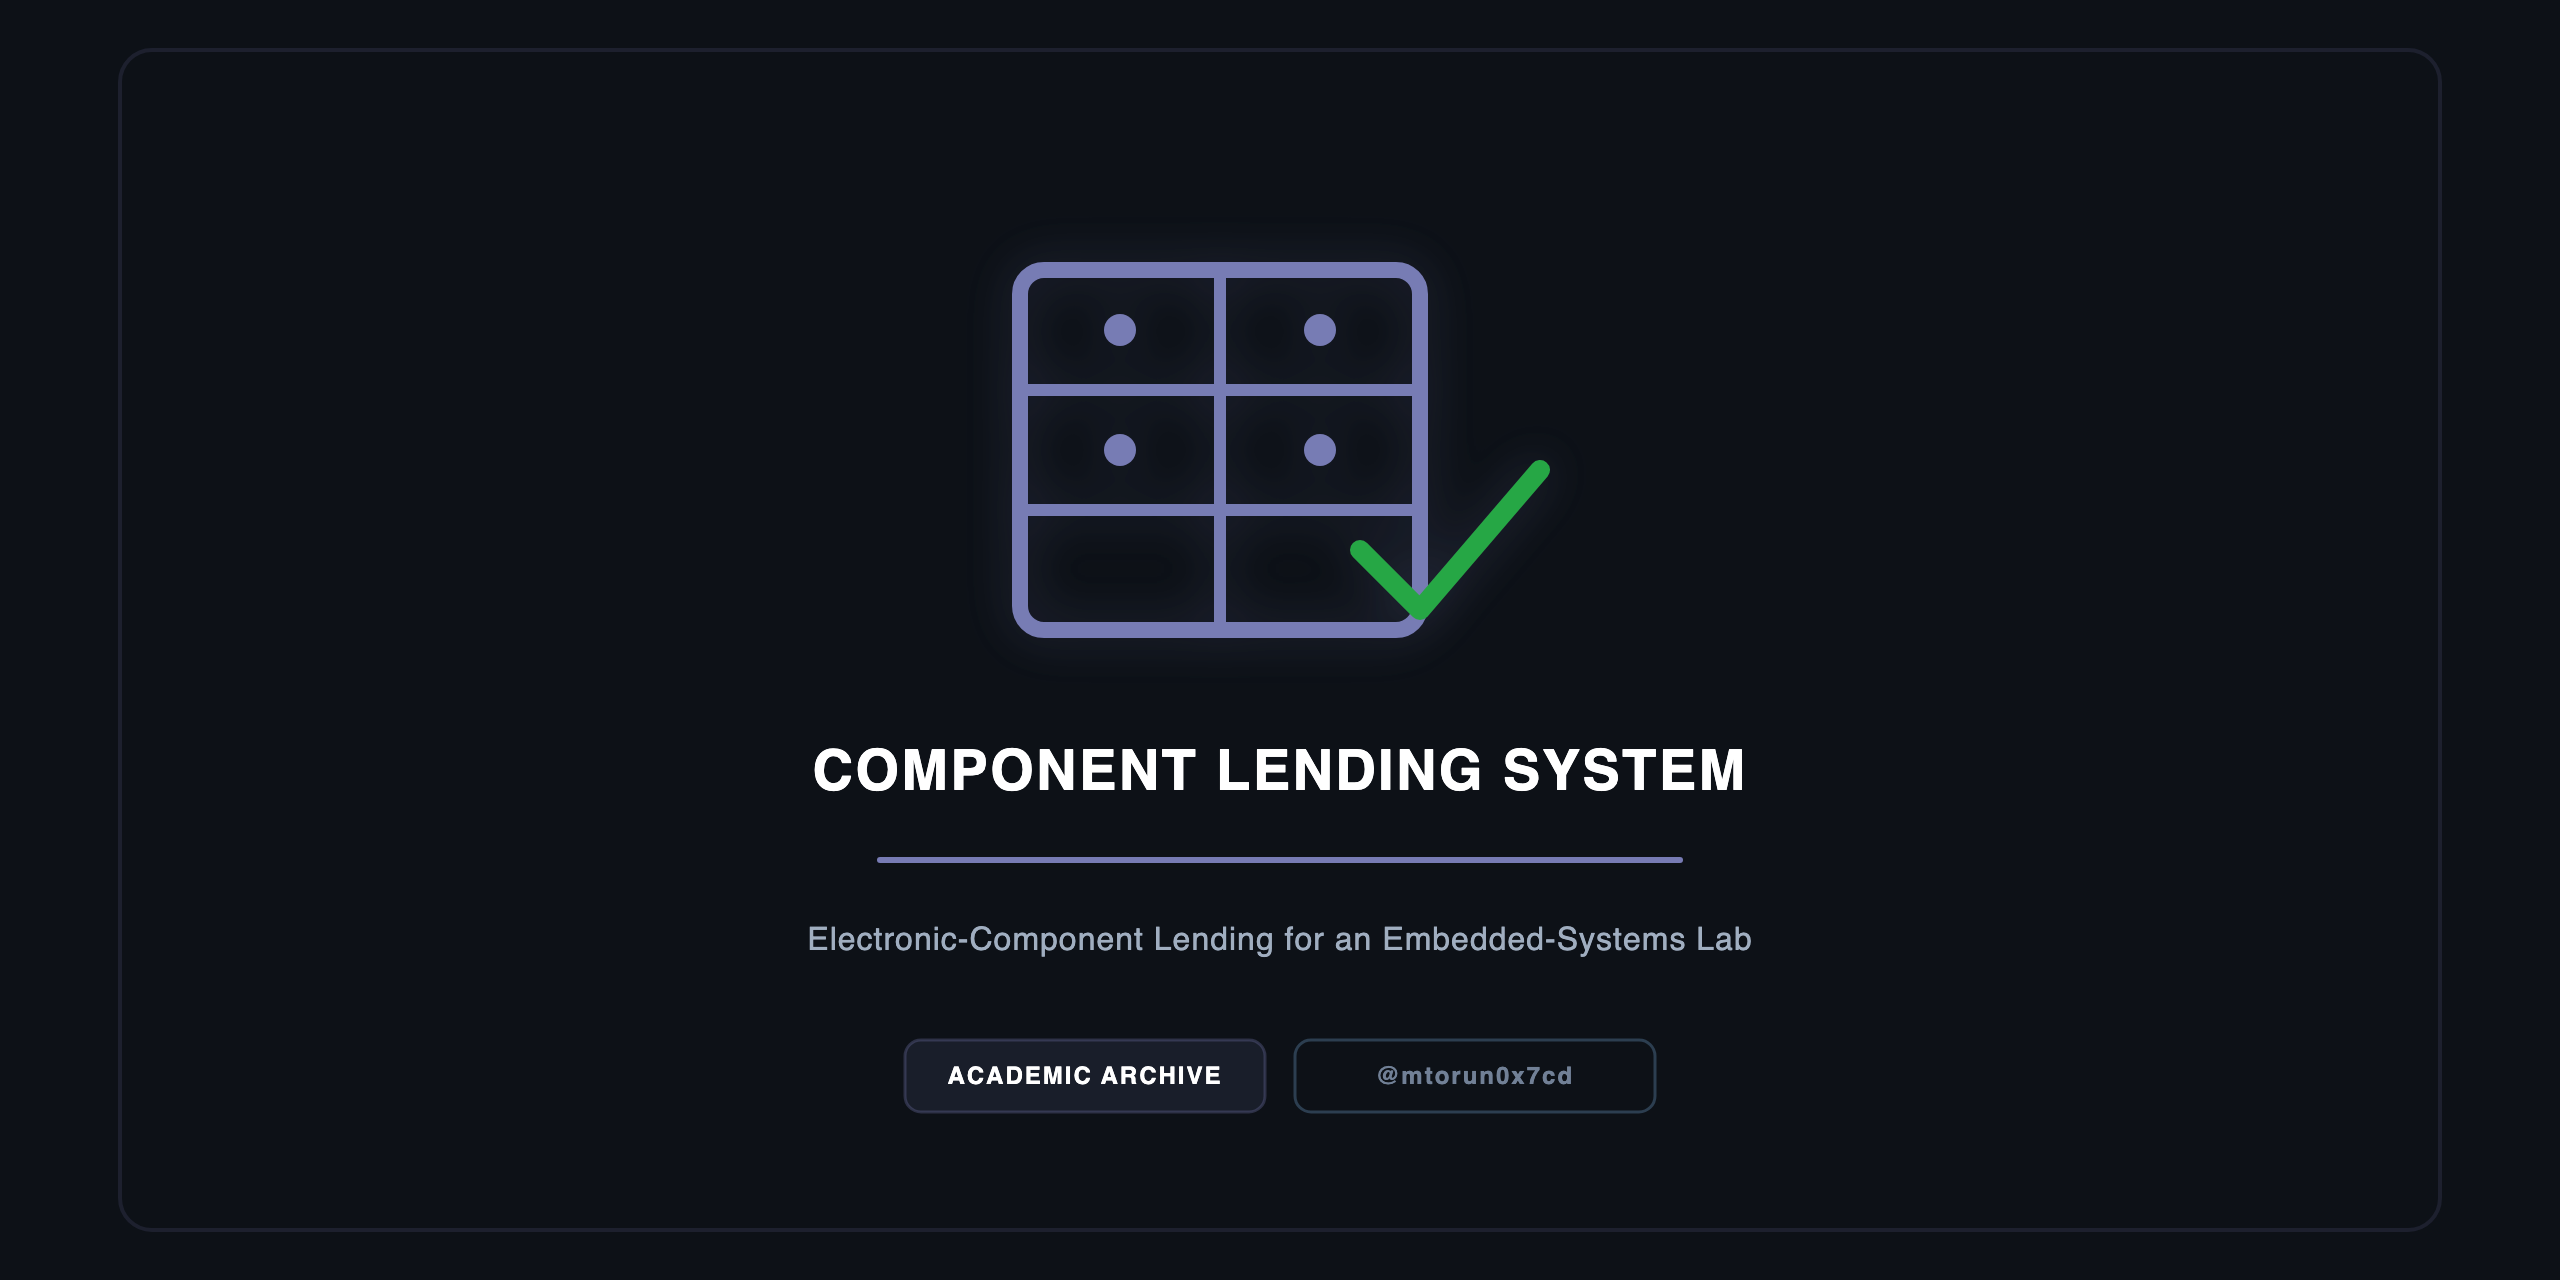
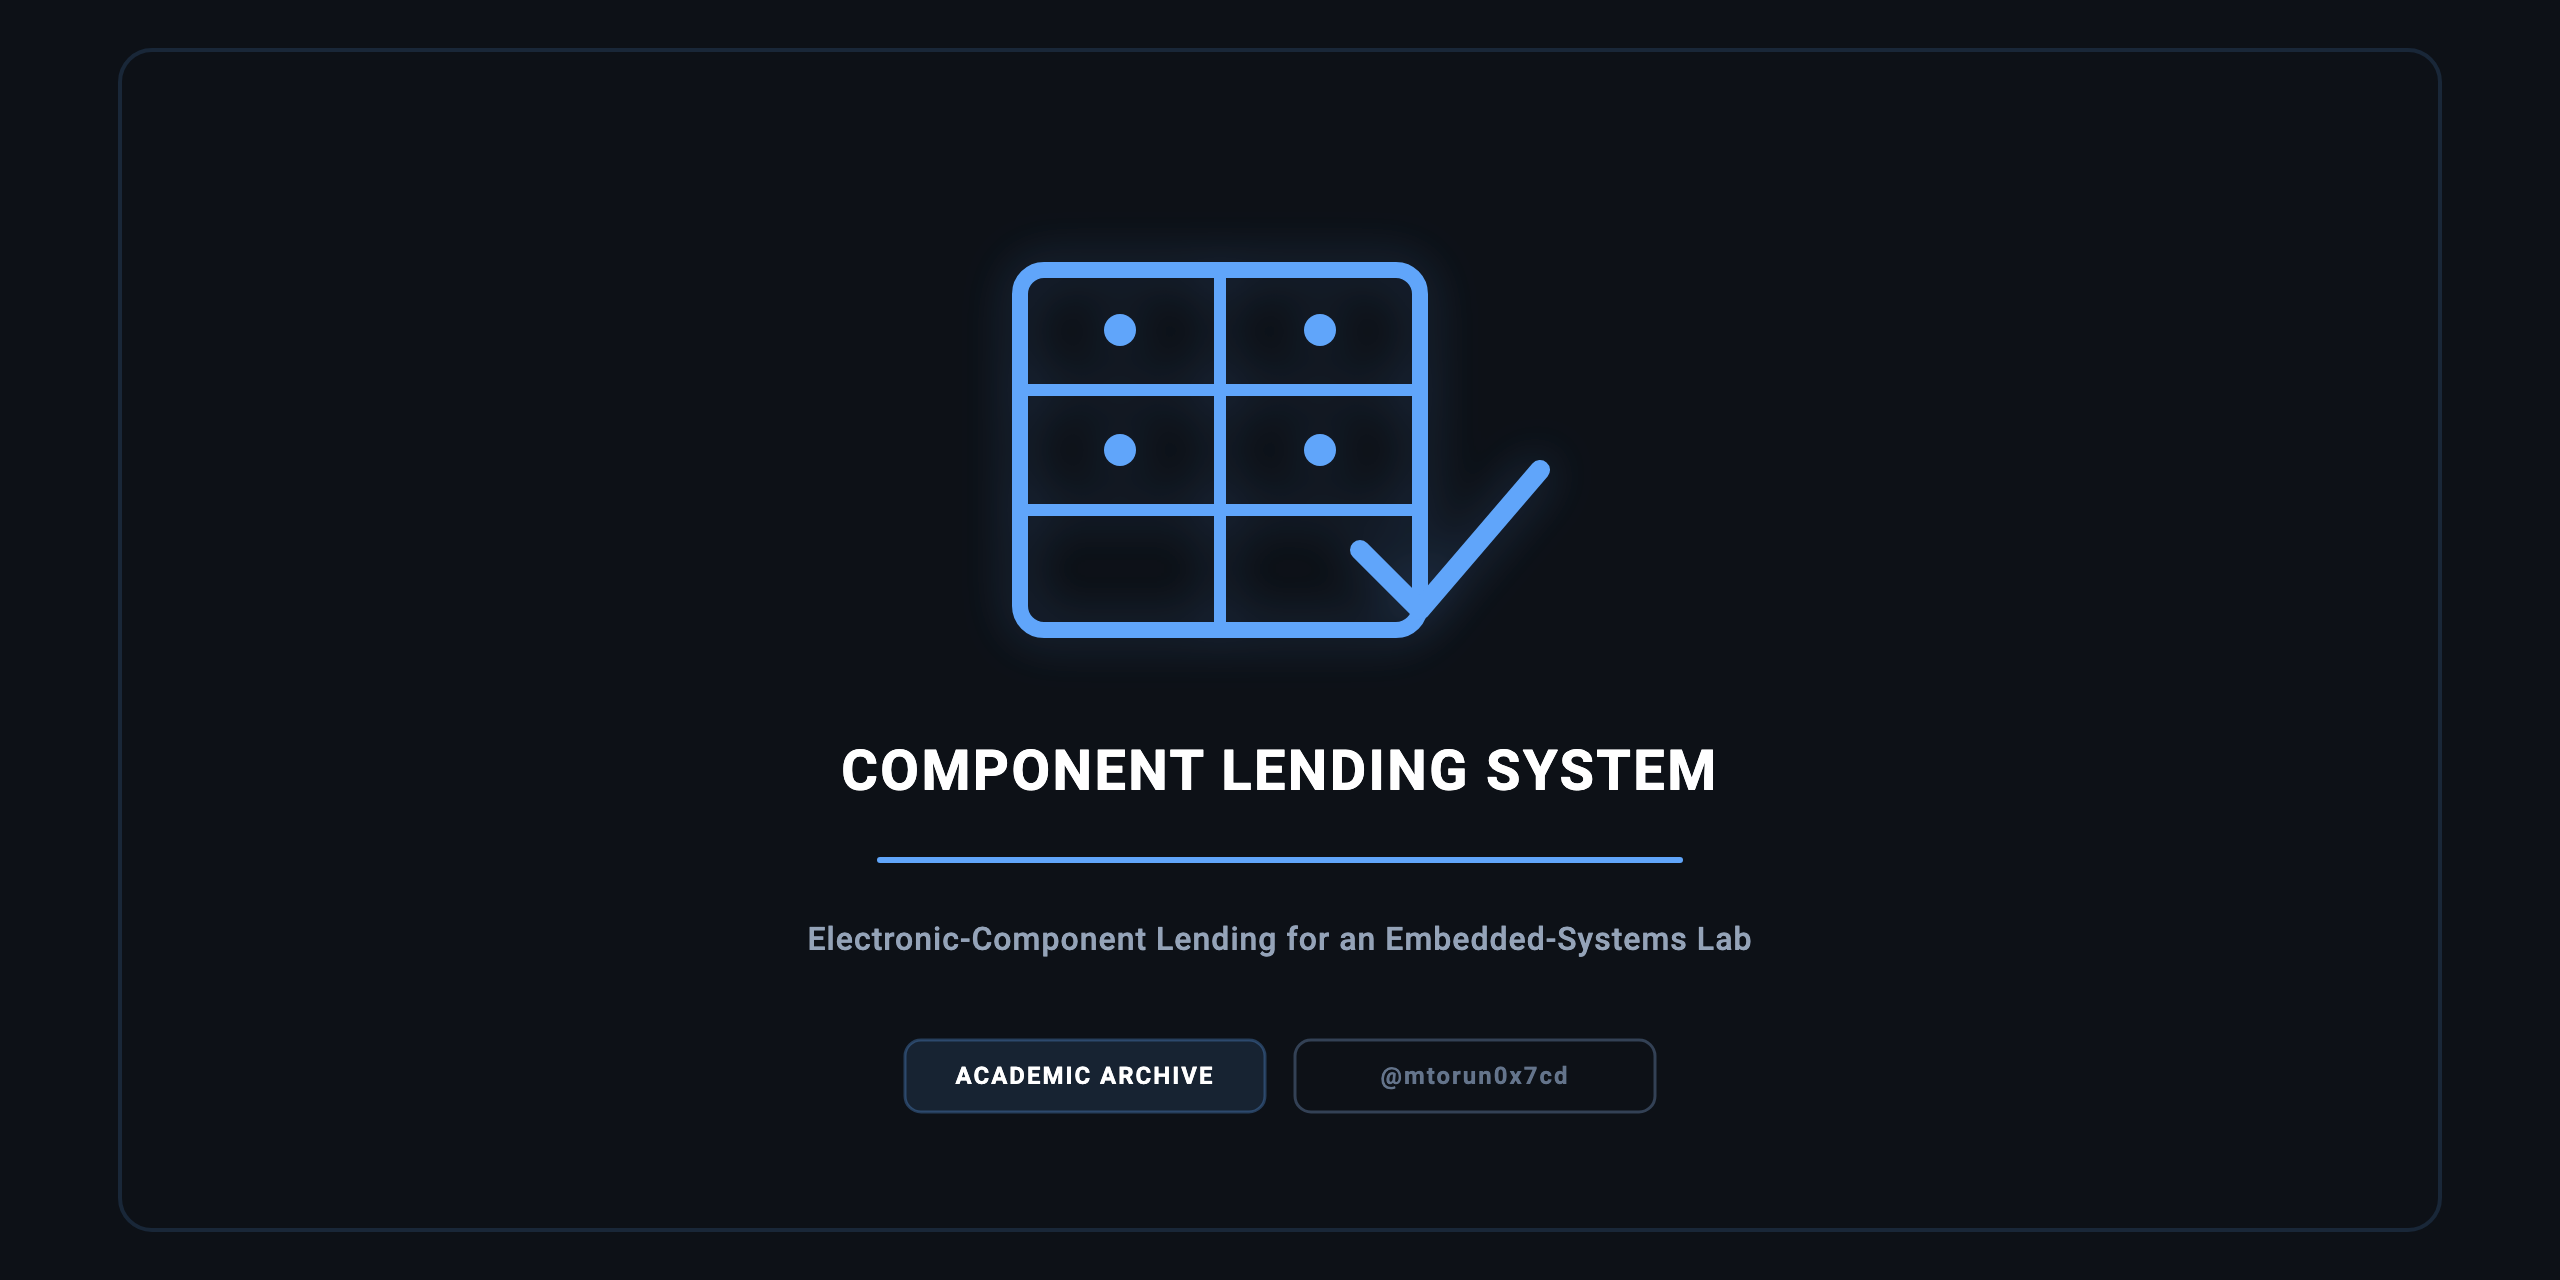
docs: recolour the social preview and diagrams to the brand accent

diff --git a/README.md b/README.md
@@ -91,7 +91,7 @@ Two triggers maintain `artikel.stueckzahl_verfuegbar` (available stock) without 
 #### Entity-Relationship Diagram (ERD)
 
 ```mermaid
-%%{init: {'theme': 'base', 'themeVariables': { 'primaryColor': '#E0F2F1', 'edgeColor': '#009688', 'primaryBorderColor': '#00695C', 'lineColor': '#009688', 'textColor': '#004D40' }}}%%
+%%{init: {'theme': 'base', 'themeVariables': { 'primaryColor': '#EFF6FF', 'edgeColor': '#2563EB', 'primaryBorderColor': '#2563EB', 'lineColor': '#2563EB', 'textColor': '#0F172A' }}}%%
 erDiagram
     benutzergruppen {
         INT id PK
@@ -146,7 +146,7 @@ erDiagram
 The sequence below is the *specified* lifecycle from the architecture documentation; as noted above, the admin-side issue and return transitions are not implemented in this source.
 
 ```mermaid
-%%{init: {'theme': 'base', 'themeVariables': { 'primaryColor': '#E0F2F1', 'edgeColor': '#009688', 'primaryBorderColor': '#00695C', 'lineColor': '#009688', 'textColor': '#004D40' }}}%%
+%%{init: {'theme': 'base', 'themeVariables': { 'primaryColor': '#EFF6FF', 'edgeColor': '#2563EB', 'primaryBorderColor': '#2563EB', 'lineColor': '#2563EB', 'textColor': '#0F172A' }}}%%
 sequenceDiagram
     autonumber
     actor U as User